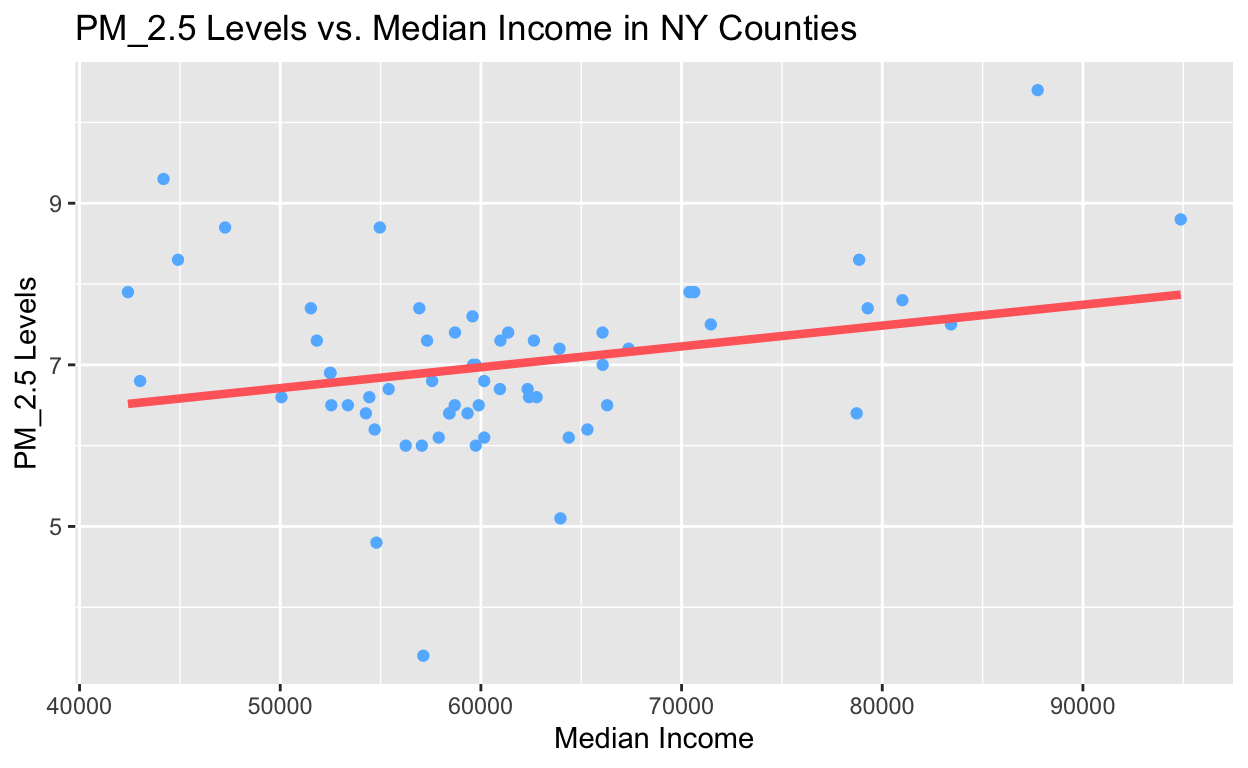
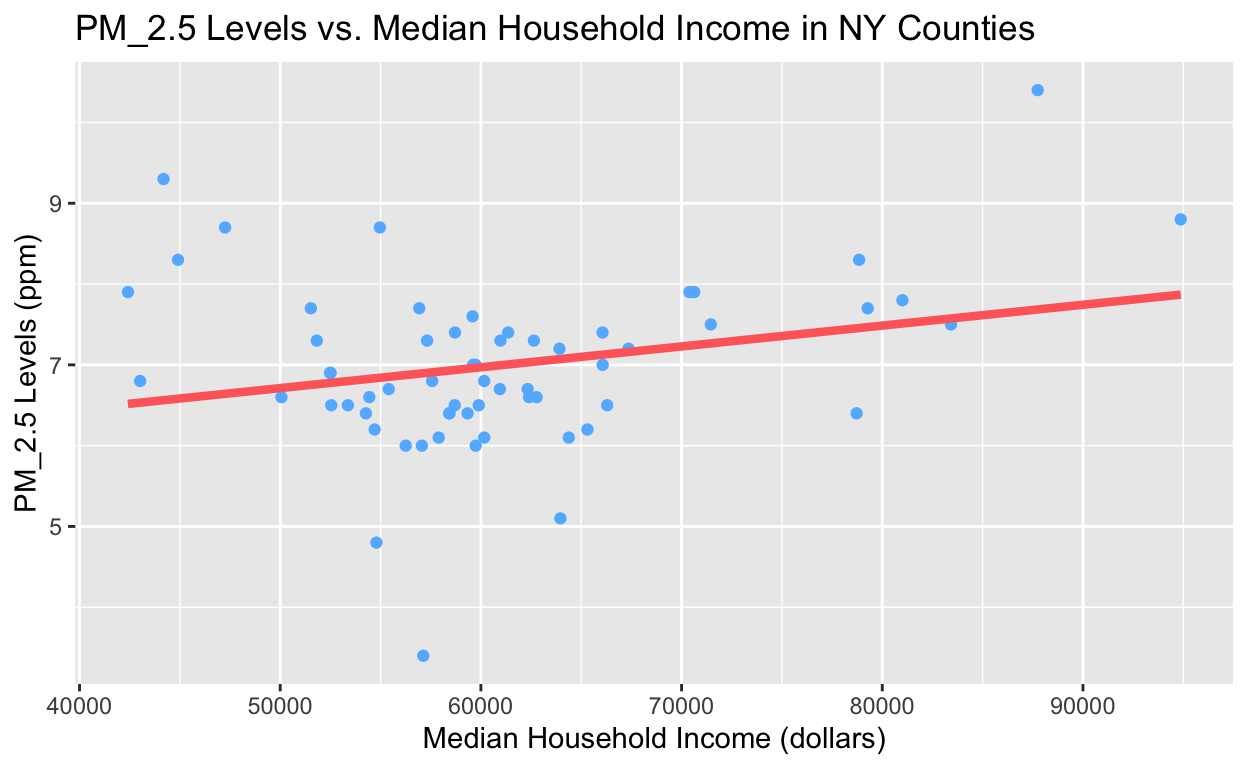
edited singular results section

Changed region(s): [[0.4062, 0.0, 0.8438, 0.0625], [0.3438, 0.9375, 0.7188, 1.0], [0.0, 0.3125, 0.0312, 0.6562]]

diff --git a/index.html b/index.html
@@ -1536,25 +1536,25 @@ code span.wa { color: #5e5e5e; font-style: italic; } /* Warning */
 <h3 id="visualizing-air-pollution-levels">Visualizing Air Pollution Levels</h3>
 <div class="layout-chunk" data-layout="l-body">
 <div class="sourceCode">
-<pre class="sourceCode r"><code class="sourceCode r"><span><span class='co'>## loading data </span></span>
+<pre class="sourceCode r"><code class="sourceCode r"><span><span class='co'>## Loading data </span></span>
 <span></span>
 <span><span class='kw'><a href='https://rdrr.io/r/base/library.html'>library</a></span><span class='op'>(</span><span class='va'><a href='https://tidyverse.tidyverse.org'>tidyverse</a></span><span class='op'>)</span></span>
 <span></span>
 <span><span class='va'>finalData</span> <span class='op'>&lt;-</span> <span class='fu'><a href='https://readr.tidyverse.org/reference/read_delim.html'>read_csv</a></span><span class='op'>(</span><span class='st'>"finalData.csv"</span><span class='op'>)</span></span>
 <span></span>
-<span><span class='co'>## getting rid of extra columns </span></span>
+<span><span class='co'>## Tidying dataset </span></span>
 <span></span>
 <span><span class='va'>finalData</span> <span class='op'>&lt;-</span> <span class='va'>finalData</span> <span class='op'>|&gt;</span></span>
 <span>  <span class='fu'><a href='https://dplyr.tidyverse.org/reference/select.html'>select</a></span><span class='op'>(</span><span class='va'>County</span><span class='op'>:</span><span class='va'>PopDensity</span><span class='op'>)</span></span>
 <span></span>
-<span><span class='co'>## distribution of air pollution</span></span>
+<span><span class='co'>## Distribution of air pollution</span></span>
 <span></span>
 <span><span class='va'>finalData</span> <span class='op'>|&gt;</span></span>
 <span>  <span class='fu'><a href='https://ggplot2.tidyverse.org/reference/ggplot.html'>ggplot</a></span><span class='op'>(</span>mapping <span class='op'>=</span> <span class='fu'><a href='https://ggplot2.tidyverse.org/reference/aes.html'>aes</a></span><span class='op'>(</span>x <span class='op'>=</span> <span class='va'>PM</span><span class='op'>)</span><span class='op'>)</span> <span class='op'>+</span></span>
 <span>  <span class='fu'><a href='https://ggplot2.tidyverse.org/reference/geom_histogram.html'>geom_histogram</a></span><span class='op'>(</span><span class='op'>)</span> <span class='op'>+</span></span>
-<span>  <span class='fu'><a href='https://ggplot2.tidyverse.org/reference/labs.html'>labs</a></span><span class='op'>(</span>x <span class='op'>=</span> <span class='st'>"PM_2.5 Levels"</span>,</span>
+<span>  <span class='fu'><a href='https://ggplot2.tidyverse.org/reference/labs.html'>labs</a></span><span class='op'>(</span>x <span class='op'>=</span> <span class='st'>"PM_2.5 Levels (ppm)"</span>,</span>
 <span>       y <span class='op'>=</span> <span class='st'>"Frequency"</span>,</span>
-<span>       title <span class='op'>=</span> <span class='st'>"Frequency of PM_2.5 Levels Across NY State (2021)"</span><span class='op'>)</span></span></code></pre>
+<span>       title <span class='op'>=</span> <span class='st'>"Frequency of PM_2.5 Levels Across NY Counties (2021)"</span><span class='op'>)</span></span></code></pre>
 </div>
 <p><img src="index_files/figure-html5/unnamed-chunk-1-1.png" width="624" /></p>
 </div>
@@ -1564,7 +1564,7 @@ code span.wa { color: #5e5e5e; font-style: italic; } /* Warning */
 <h3 id="pm_2.5-and-population-density">PM_2.5 and Population Density</h3>
 <div class="layout-chunk" data-layout="l-body">
 <div class="sourceCode">
-<pre class="sourceCode r"><code class="sourceCode r"><span><span class='co'>## population density prediction</span></span>
+<pre class="sourceCode r"><code class="sourceCode r"><span><span class='co'>## Population density graph</span></span>
 <span></span>
 <span><span class='va'>finalData</span> <span class='op'>|&gt;</span></span>
 <span>  <span class='fu'><a href='https://ggplot2.tidyverse.org/reference/ggplot.html'>ggplot</a></span><span class='op'>(</span><span class='fu'><a href='https://ggplot2.tidyverse.org/reference/aes.html'>aes</a></span><span class='op'>(</span>x <span class='op'>=</span> <span class='va'>PopDensity</span>,</span>
@@ -1578,7 +1578,7 @@ code span.wa { color: #5e5e5e; font-style: italic; } /* Warning */
 </div>
 <img src="index_files/figure-html5/unnamed-chunk-2-1.png" width="624" />
 <div class="sourceCode">
-<pre class="sourceCode r"><code class="sourceCode r"><span><span class='co'>## population density regression</span></span>
+<pre class="sourceCode r"><code class="sourceCode r"><span><span class='co'>## Population density regression</span></span>
 <span></span>
 <span><span class='va'>pop_reg</span> <span class='op'>&lt;-</span> <span class='fu'><a href='https://rdrr.io/r/stats/lm.html'>lm</a></span><span class='op'>(</span><span class='va'>PM</span> <span class='op'>~</span> <span class='va'>PopDensity</span>, data <span class='op'>=</span> <span class='va'>finalData</span><span class='op'>)</span></span>
 <span><span class='va'>pop_reg</span></span></code></pre>
@@ -1591,19 +1591,17 @@ Coefficients:
 (Intercept)   PopDensity  
   6.843e+00    4.932e-05  </code></pre>
 <div class="sourceCode">
-<pre class="sourceCode r"><code class="sourceCode r"><span><span class='co'>## correlation</span></span>
+<pre class="sourceCode r"><code class="sourceCode r"><span><span class='co'>## Population density correlation</span></span>
 <span></span>
 <span><span class='fu'><a href='https://rdrr.io/r/stats/cor.html'>cor</a></span><span class='op'>(</span><span class='va'>finalData</span><span class='op'>$</span><span class='va'>PopDensity</span>, <span class='va'>finalData</span><span class='op'>$</span><span class='va'>PM</span><span class='op'>)</span> </span></code></pre>
 </div>
 <pre><code>[1] 0.5197903</code></pre>
 </div>
-<p>By looking at the graph, we can see that there appears to be a correlation between Population Density and PM_2.5 levels. There is a positive relationship between the two variables, as indicated by the line of best fit on the graph above. Generally, as population density increases, PM_2.5 levels also increase.</p>
-<p>The regression further supports this observation. The correlation coefficient for this regression is 4.932e-05, which means that as population density increases by 1 unit (1 person per square mile), PM_2.5 levels increase by 4.932e-05 ppm. This number is small, but this was expected as there is a large range in population density.</p>
-<p>Finally, the correlation coefficient between the two variables was calculated to be about 0.520, which indicates a moderate association between the two variables.</p>
+<p>The graph indicates a positive correlation between Population Density and PM_2.5 levels. This can be seen through the line of best fit, represented by the red line. Generally, as population density increases, PM_2.5 levels also increase. The regression results further support this observation. The coefficient for this regression is 4.932e-05 (or 0.00004932). This means that as population density increases by 1 unit (1 person per square mile), PM_2.5 levels increase by 4.932e-05 ppm. This number is small, but because there is such a large range in population density, such a number is expected. Finally, the correlation coefficient (a measure of the strength of a relationship between two variables) between the two variables was 0.520, which indicates a moderately strong association between the two variables.</p>
 <h3 id="pm_2.5-and-unemployment">PM_2.5 and Unemployment</h3>
 <div class="layout-chunk" data-layout="l-body">
 <div class="sourceCode">
-<pre class="sourceCode r"><code class="sourceCode r"><span><span class='co'>## Unemployment prediction</span></span>
+<pre class="sourceCode r"><code class="sourceCode r"><span><span class='co'>## Unemployment graph</span></span>
 <span></span>
 <span><span class='va'>finalData</span> <span class='op'>|&gt;</span></span>
 <span>  <span class='fu'><a href='https://ggplot2.tidyverse.org/reference/ggplot.html'>ggplot</a></span><span class='op'>(</span><span class='fu'><a href='https://ggplot2.tidyverse.org/reference/aes.html'>aes</a></span><span class='op'>(</span>x <span class='op'>=</span> <span class='va'>Unemployment</span>,</span>
@@ -1611,13 +1609,13 @@ Coefficients:
 <span>  <span class='fu'><a href='https://ggplot2.tidyverse.org/reference/geom_point.html'>geom_point</a></span><span class='op'>(</span>color <span class='op'>=</span> <span class='st'>"steelblue1"</span><span class='op'>)</span> <span class='op'>+</span></span>
 <span>  <span class='fu'><a href='https://ggplot2.tidyverse.org/reference/geom_smooth.html'>geom_smooth</a></span><span class='op'>(</span>method <span class='op'>=</span> <span class='st'>"lm"</span>, se <span class='op'>=</span> <span class='cn'>FALSE</span>, </span>
 <span>              color <span class='op'>=</span> <span class='st'>"indianred1"</span>, size <span class='op'>=</span> <span class='fl'>1.5</span><span class='op'>)</span> <span class='op'>+</span></span>
-<span>  <span class='fu'><a href='https://ggplot2.tidyverse.org/reference/labs.html'>labs</a></span><span class='op'>(</span>x <span class='op'>=</span> <span class='st'>"Unemployment"</span>,</span>
-<span>       y <span class='op'>=</span> <span class='st'>"PM_2.5 Levels"</span>,</span>
+<span>  <span class='fu'><a href='https://ggplot2.tidyverse.org/reference/labs.html'>labs</a></span><span class='op'>(</span>x <span class='op'>=</span> <span class='st'>"Unemployment (% of county)"</span>,</span>
+<span>       y <span class='op'>=</span> <span class='st'>"PM_2.5 Levels (ppm)"</span>,</span>
 <span>       title <span class='op'>=</span> <span class='st'>"PM_2.5 Levels vs. Unemployment in NY Counties"</span><span class='op'>)</span></span></code></pre>
 </div>
 <img src="index_files/figure-html5/unnamed-chunk-3-1.png" width="624" />
 <div class="sourceCode">
-<pre class="sourceCode r"><code class="sourceCode r"><span><span class='co'>## unemployment regression</span></span>
+<pre class="sourceCode r"><code class="sourceCode r"><span><span class='co'>## Unemployment regression</span></span>
 <span></span>
 <span><span class='va'>unemployment_reg</span> <span class='op'>&lt;-</span> <span class='fu'><a href='https://rdrr.io/r/stats/lm.html'>lm</a></span><span class='op'>(</span><span class='va'>PM</span> <span class='op'>~</span> <span class='va'>Unemployment</span>, data <span class='op'>=</span> <span class='va'>finalData</span><span class='op'>)</span></span>
 <span><span class='va'>unemployment_reg</span></span></code></pre>
@@ -1630,19 +1628,17 @@ Coefficients:
  (Intercept)  Unemployment  
       5.8222        0.2265  </code></pre>
 <div class="sourceCode">
-<pre class="sourceCode r"><code class="sourceCode r"><span><span class='co'>## correlation </span></span>
+<pre class="sourceCode r"><code class="sourceCode r"><span><span class='co'>## Unemployment correlation </span></span>
 <span></span>
 <span><span class='fu'><a href='https://rdrr.io/r/stats/cor.html'>cor</a></span><span class='op'>(</span><span class='va'>finalData</span><span class='op'>$</span><span class='va'>Unemployment</span>, <span class='va'>finalData</span><span class='op'>$</span><span class='va'>PM</span><span class='op'>)</span></span></code></pre>
 </div>
 <pre><code>[1] 0.3437842</code></pre>
 </div>
-<p>By looking at the graph, we can see that there appears to be a correlation between Unemployment and PM_2.5 levels. There is a positive relationship between the two variables, as indicated by the line of best fit on the graph above. Generally, as Unemployment increases, PM_2.5 levels also increase.</p>
-<p>The regression further supports this observation. The correlation coefficient for this regression is 0.2265, which means that as unemployment increases by 1 unit (1 percentage), PM_2.5 levels increase by 0.2265 ppm.</p>
-<p>Finally, the correlation coefficient between the two variables was calculated to be about 0.344, which indicates a weak association between the two variables.</p>
+<p>From the graph, there seems to be a positive correlation between Unemployment and PM_2.5 levels. This can be seen through the line of best fit. Generally, as unemployment levels increase, PM_2.5 levels also increase. The regression further supports this observation. The coefficient for this regression is 0.2265, which means that as unemployment increases by 1 unit (1 percent), PM_2.5 levels increase by 0.2265 ppm. However, the correlation coefficient between the two variables is about 0.344, which indicates a weak association between the two variables. This reflects a weak strength to the relationship between Unemployment and PM_2.5.</p>
 <h3 id="pm_2.5-and-median-income">PM_2.5 and Median Income</h3>
 <div class="layout-chunk" data-layout="l-body">
 <div class="sourceCode">
-<pre class="sourceCode r"><code class="sourceCode r"><span><span class='co'>## Median Income prediction</span></span>
+<pre class="sourceCode r"><code class="sourceCode r"><span><span class='co'>## Median Income graph</span></span>
 <span></span>
 <span><span class='va'>finalData</span> <span class='op'>|&gt;</span></span>
 <span>  <span class='fu'><a href='https://ggplot2.tidyverse.org/reference/ggplot.html'>ggplot</a></span><span class='op'>(</span><span class='fu'><a href='https://ggplot2.tidyverse.org/reference/aes.html'>aes</a></span><span class='op'>(</span>x <span class='op'>=</span> <span class='va'>MedianIncome</span>,</span>
@@ -1650,13 +1646,13 @@ Coefficients:
 <span>  <span class='fu'><a href='https://ggplot2.tidyverse.org/reference/geom_point.html'>geom_point</a></span><span class='op'>(</span>color <span class='op'>=</span> <span class='st'>"steelblue1"</span><span class='op'>)</span> <span class='op'>+</span></span>
 <span>  <span class='fu'><a href='https://ggplot2.tidyverse.org/reference/geom_smooth.html'>geom_smooth</a></span><span class='op'>(</span>method <span class='op'>=</span> <span class='st'>"lm"</span>, se <span class='op'>=</span> <span class='cn'>FALSE</span>, </span>
 <span>              color <span class='op'>=</span> <span class='st'>"indianred1"</span>, size <span class='op'>=</span> <span class='fl'>1.5</span><span class='op'>)</span> <span class='op'>+</span></span>
-<span>  <span class='fu'><a href='https://ggplot2.tidyverse.org/reference/labs.html'>labs</a></span><span class='op'>(</span>x <span class='op'>=</span> <span class='st'>"Median Income"</span>,</span>
-<span>       y <span class='op'>=</span> <span class='st'>"PM_2.5 Levels"</span>,</span>
-<span>       title <span class='op'>=</span> <span class='st'>"PM_2.5 Levels vs. Median Income in NY Counties"</span><span class='op'>)</span></span></code></pre>
+<span>  <span class='fu'><a href='https://ggplot2.tidyverse.org/reference/labs.html'>labs</a></span><span class='op'>(</span>x <span class='op'>=</span> <span class='st'>"Median Household Income (dollars)"</span>,</span>
+<span>       y <span class='op'>=</span> <span class='st'>"PM_2.5 Levels (ppm)"</span>,</span>
+<span>       title <span class='op'>=</span> <span class='st'>"PM_2.5 Levels vs. Median Household Income in NY Counties"</span><span class='op'>)</span></span></code></pre>
 </div>
 <img src="index_files/figure-html5/unnamed-chunk-4-1.png" width="624" />
 <div class="sourceCode">
-<pre class="sourceCode r"><code class="sourceCode r"><span><span class='co'>## unemployment regression</span></span>
+<pre class="sourceCode r"><code class="sourceCode r"><span><span class='co'>## Median Income regression</span></span>
 <span></span>
 <span><span class='va'>income_reg</span> <span class='op'>&lt;-</span> <span class='fu'><a href='https://rdrr.io/r/stats/lm.html'>lm</a></span><span class='op'>(</span><span class='va'>PM</span> <span class='op'>~</span> <span class='va'>MedianIncome</span>, data <span class='op'>=</span> <span class='va'>finalData</span><span class='op'>)</span></span>
 <span><span class='va'>income_reg</span></span></code></pre>
@@ -1669,19 +1665,17 @@ Coefficients:
  (Intercept)  MedianIncome  
    5.423e+00     2.578e-05  </code></pre>
 <div class="sourceCode">
-<pre class="sourceCode r"><code class="sourceCode r"><span><span class='co'>## correlation </span></span>
+<pre class="sourceCode r"><code class="sourceCode r"><span><span class='co'>## Median Income correlation </span></span>
 <span></span>
 <span><span class='fu'><a href='https://rdrr.io/r/stats/cor.html'>cor</a></span><span class='op'>(</span><span class='va'>finalData</span><span class='op'>$</span><span class='va'>MedianIncome</span>, <span class='va'>finalData</span><span class='op'>$</span><span class='va'>PM</span><span class='op'>)</span></span></code></pre>
 </div>
 <pre><code>[1] 0.2532647</code></pre>
 </div>
-<p>By looking at the graph, we can see that there appears to be a slight correlation between Median Income and PM_2.5 levels. There is a positive relationship between the two variables, as indicated by the line of best fit on the graph above. Generally, as Median Income increases, PM_2.5 levels also increase.</p>
-<p>The regression further supports this observation. The correlation coefficient for this regression is 2.578e-05, which means that as Median Income increases by 1 unit (1 dollar), PM_2.5 levels increase by 2.578e-05 ppm. This number is small, but this was expected as there is a large range in median income, similar to population density.</p>
-<p>Finally, the correlation coefficient between the two variables was calculated to be about 0.253, which indicates a weak association between the two variables.</p>
+<p>From the line of best fit, there seems to be a positive relationship between Median Household Income and PM_2.5 levels. Generally, as Median Household Income increases, PM_2.5 levels tend to increase. Though, the strength relationship does not appear to as strong as the relationships for Population Density and Unemployment. The coefficient for the regression is 2.578e-05 or (0.00002578), which means that as Median Household Income increases by 1 unit (1 dollar), PM_2.5 levels increase by 2.578e-05 ppm. This number is small, but this was expected due to the large range in values for Median Household Income, in a similar way to Population Density. Finally, the correlation coefficient between Median Household Income and PM_2.5 levels was about 0.253, which indicates a weak strength of relationship, supporting the earlier conclusion.</p>
 <h3 id="pm_2.5-and-education">PM_2.5 and Education</h3>
 <div class="layout-chunk" data-layout="l-body">
 <div class="sourceCode">
-<pre class="sourceCode r"><code class="sourceCode r"><span><span class='co'>## Education prediction</span></span>
+<pre class="sourceCode r"><code class="sourceCode r"><span><span class='co'>## Education graph</span></span>
 <span></span>
 <span><span class='va'>finalData</span> <span class='op'>|&gt;</span></span>
 <span>  <span class='fu'><a href='https://ggplot2.tidyverse.org/reference/ggplot.html'>ggplot</a></span><span class='op'>(</span><span class='fu'><a href='https://ggplot2.tidyverse.org/reference/aes.html'>aes</a></span><span class='op'>(</span>x <span class='op'>=</span> <span class='va'>CollegeDegree</span>,</span>
@@ -1689,13 +1683,13 @@ Coefficients:
 <span>  <span class='fu'><a href='https://ggplot2.tidyverse.org/reference/geom_point.html'>geom_point</a></span><span class='op'>(</span>color <span class='op'>=</span> <span class='st'>"steelblue1"</span><span class='op'>)</span> <span class='op'>+</span></span>
 <span>  <span class='fu'><a href='https://ggplot2.tidyverse.org/reference/geom_smooth.html'>geom_smooth</a></span><span class='op'>(</span>method <span class='op'>=</span> <span class='st'>"lm"</span>, se <span class='op'>=</span> <span class='cn'>FALSE</span>, </span>
 <span>              color <span class='op'>=</span> <span class='st'>"indianred1"</span>, size <span class='op'>=</span> <span class='fl'>1.5</span><span class='op'>)</span> <span class='op'>+</span></span>
-<span>  <span class='fu'><a href='https://ggplot2.tidyverse.org/reference/labs.html'>labs</a></span><span class='op'>(</span>x <span class='op'>=</span> <span class='st'>"College Degree"</span>,</span>
-<span>       y <span class='op'>=</span> <span class='st'>"PM_2.5 Levels"</span>,</span>
+<span>  <span class='fu'><a href='https://ggplot2.tidyverse.org/reference/labs.html'>labs</a></span><span class='op'>(</span>x <span class='op'>=</span> <span class='st'>"Proportion of County with College Degree or Higher"</span>,</span>
+<span>       y <span class='op'>=</span> <span class='st'>"PM_2.5 Levels (ppm)"</span>,</span>
 <span>       title <span class='op'>=</span> <span class='st'>"PM_2.5 Levels vs. Education in NY Counties"</span><span class='op'>)</span></span></code></pre>
 </div>
 <img src="index_files/figure-html5/unnamed-chunk-5-1.png" width="624" />
 <div class="sourceCode">
-<pre class="sourceCode r"><code class="sourceCode r"><span><span class='co'>## education regression</span></span>
+<pre class="sourceCode r"><code class="sourceCode r"><span><span class='co'>## Education regression</span></span>
 <span></span>
 <span><span class='va'>income_reg</span> <span class='op'>&lt;-</span> <span class='fu'><a href='https://rdrr.io/r/stats/lm.html'>lm</a></span><span class='op'>(</span><span class='va'>PM</span> <span class='op'>~</span> <span class='va'>CollegeDegree</span>, data <span class='op'>=</span> <span class='va'>finalData</span><span class='op'>)</span></span>
 <span><span class='va'>income_reg</span></span></code></pre>
@@ -1708,19 +1702,17 @@ Coefficients:
   (Intercept)  CollegeDegree  
         5.526          5.040  </code></pre>
 <div class="sourceCode">
-<pre class="sourceCode r"><code class="sourceCode r"><span><span class='co'>## correlation </span></span>
+<pre class="sourceCode r"><code class="sourceCode r"><span><span class='co'>## Education correlation </span></span>
 <span></span>
 <span><span class='fu'><a href='https://rdrr.io/r/stats/cor.html'>cor</a></span><span class='op'>(</span><span class='va'>finalData</span><span class='op'>$</span><span class='va'>CollegeDegree</span>, <span class='va'>finalData</span><span class='op'>$</span><span class='va'>PM</span><span class='op'>)</span></span></code></pre>
 </div>
 <pre><code>[1] 0.4575398</code></pre>
 </div>
-<p>By looking at the graph, we can see that there appears to be a correlation between Education and PM_2.5 levels. There is a positive relationship between the two variables, as indicated by the line of best fit on the graph above. Generally, as Education increases, PM_2.5 levels also increase.</p>
-<p>The regression further supports this observation. The correlation coefficient for this regression is 5.040, which means that as Education increases by 1 unit (1 percentage), PM_2.5 levels increase by 5.040 ppm.</p>
-<p>Finally, the correlation coefficient between the two variables was calculated to be about 0.458, which indicates a moderate association between the two variables.</p>
+<p>From the line of best fit, there appears to be a positive relationship between Education levels and PM_2.5 levels. That is, as the proportion of a county with a college degree or higher increases, PM_2.5 levels tend to increase. The regression supports this observation, as the regression coefficient is 5.040. This means that as Education increases by 1 unit (1 additional percentage of the county with a college degree or higher), PM_2.5 levels increase by 5.040 ppm. Finally, the correlation coefficient between the two variables is about 0.458 which indicated a moderately strong relationship between them.</p>
 <h3 id="pm_2.5-and-poverty">PM_2.5 and Poverty</h3>
 <div class="layout-chunk" data-layout="l-body">
 <div class="sourceCode">
-<pre class="sourceCode r"><code class="sourceCode r"><span><span class='co'>## Poverty prediction</span></span>
+<pre class="sourceCode r"><code class="sourceCode r"><span><span class='co'>## Poverty graph</span></span>
 <span></span>
 <span><span class='va'>finalData</span> <span class='op'>|&gt;</span></span>
 <span>  <span class='fu'><a href='https://ggplot2.tidyverse.org/reference/ggplot.html'>ggplot</a></span><span class='op'>(</span><span class='fu'><a href='https://ggplot2.tidyverse.org/reference/aes.html'>aes</a></span><span class='op'>(</span>x <span class='op'>=</span> <span class='va'>Poverty</span>,</span>
@@ -1728,8 +1720,8 @@ Coefficients:
 <span>  <span class='fu'><a href='https://ggplot2.tidyverse.org/reference/geom_point.html'>geom_point</a></span><span class='op'>(</span>color <span class='op'>=</span> <span class='st'>"steelblue1"</span><span class='op'>)</span> <span class='op'>+</span></span>
 <span>  <span class='fu'><a href='https://ggplot2.tidyverse.org/reference/geom_smooth.html'>geom_smooth</a></span><span class='op'>(</span>method <span class='op'>=</span> <span class='st'>"lm"</span>, se <span class='op'>=</span> <span class='cn'>FALSE</span>, </span>
 <span>              color <span class='op'>=</span> <span class='st'>"indianred1"</span>, size <span class='op'>=</span> <span class='fl'>1.5</span><span class='op'>)</span> <span class='op'>+</span></span>
-<span>  <span class='fu'><a href='https://ggplot2.tidyverse.org/reference/labs.html'>labs</a></span><span class='op'>(</span>x <span class='op'>=</span> <span class='st'>"Poverty"</span>,</span>
-<span>       y <span class='op'>=</span> <span class='st'>"PM_2.5 Levels"</span>,</span>
+<span>  <span class='fu'><a href='https://ggplot2.tidyverse.org/reference/labs.html'>labs</a></span><span class='op'>(</span>x <span class='op'>=</span> <span class='st'>"Poverty (% of county below poverty line)"</span>,</span>
+<span>       y <span class='op'>=</span> <span class='st'>"PM_2.5 Levels (ppm)"</span>,</span>
 <span>       title <span class='op'>=</span> <span class='st'>"PM_2.5 Levels vs. Poverty in NY Counties"</span><span class='op'>)</span></span></code></pre>
 </div>
 <img src="index_files/figure-html5/unnamed-chunk-6-1.png" width="624" />
@@ -1753,13 +1745,11 @@ Coefficients:
 </div>
 <pre><code>[1] 0.08537905</code></pre>
 </div>
-<p>By looking at the graph, we can see that there appears to be little correlation between Poverty and PM_2.5 levels, as indicated by the almost horizontal line of best fit on the graph above.</p>
-<p>The correlation coefficient for this regression is 0.02879, which means that as Poverty increases by 1 unit (1 percentage), PM_2.5 levels increase by 0.02879 ppm.</p>
-<p>Finally, the correlation coefficient between the two variables was calculated to be about 0.085, which indicates a very weak association between the two variables.</p>
+<p>From the nearly horizontal line of best fit, there appears to be little correlation between Poverty and PM_2.5 levels, especially in comparison to the other variables. That is, an increase in poverty levels is not really associated with any change in PM_2.5 levels. However, there does appear to be a very minor positive relationship. The regression coefficient supports this observation, as it is 0.028. This means that as Poverty increases by 1 unit (1 additional percentage of the county below the poverty line), PM_2.5 levels increase by 0.028 ppm. Finally, the correlation coefficient between the two variables is about 0.085, which indicates a very weak association between them. This is the smallest correlation coefficient out of all of the relationships analyzed so far.</p>
 <h3 id="multiple-regression">Multiple Regression</h3>
 <div class="layout-chunk" data-layout="l-body">
 <div class="sourceCode">
-<pre class="sourceCode r"><code class="sourceCode r"><span><span class='co'>## multiple regression</span></span>
+<pre class="sourceCode r"><code class="sourceCode r"><span><span class='co'>## Multiple regression</span></span>
 <span></span>
 <span><span class='va'>multi_reg</span> <span class='op'>&lt;-</span> <span class='fu'><a href='https://rdrr.io/r/stats/lm.html'>lm</a></span><span class='op'>(</span><span class='va'>PM</span> <span class='op'>~</span> <span class='va'>Unemployment</span> <span class='op'>+</span> <span class='va'>MedianIncome</span> <span class='op'>+</span> <span class='va'>CollegeDegree</span> <span class='op'>+</span> <span class='va'>Poverty</span> <span class='op'>+</span> <span class='va'>PopDensity</span>, data <span class='op'>=</span> <span class='va'>finalData</span><span class='op'>)</span></span>
 <span><span class='va'>multi_reg</span></span></code></pre>
@@ -1775,13 +1765,13 @@ Coefficients:
       Poverty     PopDensity  
    -1.988e-02      2.652e-05  </code></pre>
 <div class="sourceCode">
-<pre class="sourceCode r"><code class="sourceCode r"><span><span class='co'>## creating table</span></span>
+<pre class="sourceCode r"><code class="sourceCode r"><span><span class='co'>## Creating table</span></span>
 <span></span>
 <span><span class='fu'><a href='https://rdrr.io/r/utils/install.packages.html'>install.packages</a></span><span class='op'>(</span><span class='st'>"modelsummary"</span>, repos <span class='op'>=</span> <span class='st'>"http://cran.us.r-project.org"</span><span class='op'>)</span></span></code></pre>
 </div>
 <pre><code>
 The downloaded binary packages are in
-    /var/folders/2d/6f7wkb7x34qb945g_vvn025m0000gn/T//RtmpNnPJqf/downloaded_packages</code></pre>
+    /var/folders/2d/6f7wkb7x34qb945g_vvn025m0000gn/T//Rtmph1Cvxl/downloaded_packages</code></pre>
 <div class="sourceCode">
 <pre class="sourceCode r"><code class="sourceCode r"><span><span class='kw'><a href='https://rdrr.io/r/base/library.html'>library</a></span><span class='op'>(</span><span class='va'><a href='https://vincentarelbundock.github.io/modelsummary/'>modelsummary</a></span><span class='op'>)</span></span>
 <span></span>
